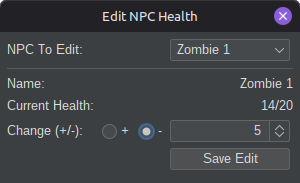
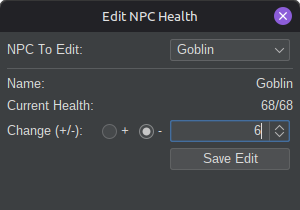
Updated README.md

diff --git a/README.md b/README.md
@@ -4,7 +4,7 @@
 ![Build](https://img.shields.io/badge/Build-Maven-blue.svg)
 ![UI](https://img.shields.io/badge/UI-Swing%20%7C%20FlatLaf%20%7C%20MigLayout-informational.svg)
 
-A desktop combat management and initiative tracking application for D&D. Designed for DMs, it automates turn order, resolves ties, tracks NPC hit points, and manages death saves.
+A desktop combat management and initiative tracking application for D&D. Designed for Dungeon Masters, it automates turn order, resolves ties, tracks NPC hit points, manages swarms and hordes, handles death saves, and provides secure encrypted encounter saves.
 
 ## Table of Contents
 - [Installation & Running](#installation--running)
@@ -21,7 +21,7 @@ A desktop combat management and initiative tracking application for D&D. Designe
 
 #### Prerequisites
 Ensure you have the following installed on your machine:
-- **Java Development Kit (JDK):** Version 21 or higher (21 recommended): `java -version`
+- **Java Development Kit (JDK):** Version 21 or higher: `java -version`
 - **Apache Maven:** `mvn -version`
 - **Git:** `git --version`
 
@@ -51,72 +51,114 @@ mvn clean compile exec:java -Dexec.mainClass="com.c0d3wan.initiativetracker.Main
 Or build the package and run it from the `target/` directory:
 ```bash
 mvn clean package
+java -jar target/initiativetracker-<version>.jar
+```
+
+To supply a custom 256-bit AES Base64 key for file encryption:
+```bash
+java -Dsave.encryption.key="YOUR_BASE64_AES_KEY" -jar target/initiativetracker-<version>.jar
 ```
 
 ### Via Releases
-Go to [Releases](https://github.com/EubiWan/InitiativeTracker/releases) and install the latest version for your device.
+Go to [Releases](https://github.com/C0d3Wan/InitiativeTracker/releases) and install the latest version for your device.
 
 ---
 
 ## Features
-- **Automatic Initiative & Tie-Breaker Calculation** – Sorts combatants automatically and resolves ties using Dexterity modifiers.
-- **Circular Turn Queue & Active Highlighting** – Rotates the active combatant to the top of the list with green turn highlighting.
-- **Dynamic Death Saving Throws** – Contextual Pass/Fail controls and visual pip trackers when the active character is downed.
-- **NPC Health Management** – Tracks current and max HP for Enemies and Allies with automatic death status transitions at 0 HP.
-- **Live Mid-Combat Editing** – Update initiative rolls, Dexterity scores, or life statuses on the fly.
-- **Batch Adding & Removal** – Add multiple combatants in one go, or clear out all NPCs/characters at the end of an encounter.
-- **Input Validation** – Prevents duplicate names and truncates overly long strings to keep the UI clean.
-- **Save/Load** - Ability to save and load the initiative tracker
+- **Automatic Initiative & Dynamic Tie-Breaker Calculation** – Sorts combatants automatically in descending order, using Dexterity scores as fractional tie-breakers for Players and Allies while keeping Enemy rolls standard.
+- **Circular Turn Queue & Active Highlighting** – Cyclically advances combat round-by-round, anchoring the active combatant at index 0 with an emerald green highlight and skipping deceased combatants automatically.
+- **Dynamic Death Saving Throws** – Displays interactive Pass/Fail controls and visual radio pip trackers in the main window whenever the active turn holder is downed. Resolves resurrection at 3 passes and death at 3 fails.
+- **NPC Health & Horde/Swarm Management** – Manage individual NPC health pools with delta (+/-) adjustments. Group swarms into `HORDE` entities that share an initiative slot and dynamically update aggregate health as individual members hit 0 HP.
+- **AES-Encrypted Save & Load** – Encrypts and decrypts combat sessions using AES encryption over JSON data, complete with duplicate name filtering and dedicated "Save As" / "Load File" dialogs.
+- **Light & Dark Theme Toggle** – Switch seamlessly between FlatLaf Light and Dark themes, with state persistence stored automatically in the platform config directory.
+- **Live Mid-Combat Editing** – Update initiative rolls, Dexterity scores, or life statuses (`ALIVE`, `DOWN`, `DEAD`) on the fly.
+- **Batch Removal & Targeting** – Remove individual characters, all registered combatants, all NPCs, or filter removal by enemy sub-types (e.g., removing all "Goblin Archers").
+- **Cross-Platform Storage** – Automatically stores saves and settings in standard OS folders (`%APPDATA%` on Windows, `~/.config` on Linux, and `Application Support` on macOS).
 
 ---
 
 ## Usage Guide
 
-### 1. Main Interface (Empty State)
+### 1. Main Interface & Theming
+#### 1.1. Main Window (Initial Empty State)
 ![EmptyMainMenu.png](Images/EmptyMainMenu.png)
 
-### 2. Adding a Player Character
-![AddCharacter.png](Images/AddCharacter.png)
+#### 1.2. Active Combat & Turn Order Highlighting
+![MainMenuActiveTurn.png](Images/MainMenuActiveTurn.png)
 
-### 3. Adding an Enemy / NPC (with Max Health)
-![AddEnemy.png](Images/AddEnemy.png)
+#### 1.3. Theme Showcase
+![ThemeComparison.png](Images/ThemeComparison.png)
 
-### 4. Active Combat & Turn Order
-![MainMenu.png](Images/MainMenu.png)
+---
 
-### 5. Editing Character Stats Mid-Combat
-![EditCharacter.png](Images/EditCharacter.png)
+### 2. Adding Combatants
+#### 2.1. Adding a Player Character
+![AddPlayerCharacter.png](Images/AddPlayerCharacter.png)
 
-### 6. Managing NPC Health (Damage & Healing)
+#### 2.2. Adding an Enemy or NPC (Hit Point Configuration)
+![AddNPC.png](Images/AddNPC.png)
+
+#### 2.3. Configuring a Swarm or Horde Entity
+![AddHorde.png](Images/AddHorde.png)
+
+---
+
+### 3. Active Death Saving Throw Controls
+![DeathSavesActive.png](Images/DeathSavesActive.png)
+
+---
+
+### 4. Mid-Combat Adjustments
+#### 4.1. Editing Stats Mid-Combat (Initiative, Dexterity, Status)
+![EditCharacterStats.png](Images/EditCharacterStats.png)
+
+#### 4.2. Applying NPC Damage & Healing (+ / -)
 ![EditNPCHealth.png](Images/EditNPCHealth.png)
 
-### 7. Rolling Death Saving Throws
-![DeathSaves.png](Images/DeathSaves.png)
+#### 4.3.1. Targeted Removal (Single)
+![RemoveCharacterOptionsSingle.png](Images/RemoveCharacterOptionsSingle.png)
 
-### 8. Removing Combatants
-![RemoveCharacter.png](Images/RemoveCharacter.png)
+#### 4.3.2. Targeted Removal (Group)
+![RemoveChracterOptionsGroup.png](Images/RemoveChracterOptionsGroup.png)
+
+---
+
+### 5. File Persistence & Encounter Storage
+#### 5.1. Saving Encounters with Custom Filenames
+![SaveAsDialogue.png](Images/SaveAsDialogue.png)
+
+#### 5.2. Browsing & Loading Encounters from Storage
+![LoadFileDialogue.png](Images/LoadFileDialogue.png)
 
 ---
 
 ## Project Structure
 
 ```text
-src/main/java/com/eubi/initiativetracker/
+src/main/java/com/c0d3wan/initiativetracker/
 ├── characters/
 │   ├── Character.java              # Base combatant model with composite initiative math and death saves
+│   ├── CharacterData.java          # Immutable record snapshot of combatant state
 │   ├── CharacterManager.java       # Roster collection, stream sorting, and circular turn rotation
-│   ├── CharacterType.java          # Enum for alignment categories (PLAYER, ENEMY, ALLY)
-│   ├── DeathStatus.java            # Enum for health states (ALIVE, DOWN, DEAD)
-│   └── NonePlayerCharacter.java    # NPC/Enemy subclass adding current/max HP and auto-death triggers
+│   ├── CharacterType.java          # Enum for alignment categories (PLAYER, ENEMY, ALLY, HORDE, UNKNOWN)
+│   ├── DeathStatus.java            # Enum for health states (ALIVE, DOWN, DEAD, UNKNOWN)
+│   ├── Horde.java                  # Composite group NPC entity with aggregated health scaling
+│   └── NonePlayerCharacter.java    # NPC subclass adding HP tracking, enemy subtypes, and auto-death triggers
+├── FileManagement/
+│   ├── ConfigManager.java          # Serializes and restores UI theme preferences
+│   ├── FileManager.java            # Cross-platform directory routing (Windows, Linux, macOS)
+│   └── SaveLoadManager.java        # AES encryption, decryption, and JSON serialization for encounters
 ├── swingui/
-│   ├── AddCharacterMenu.java       # Modal dialog for creating combatants with duplicate name validation
-│   ├── CharacterCellRenderer.java  # Custom JList renderer for turn highlighting and death save pips
+│   ├── AddCharacterMenu.java       # Modal dialog for creating combatants with duplicate name & regex validation
+│   ├── CharacterCellRenderer.java  # Custom JList renderer for active turn highlighting and death save pips
 │   ├── EditCharacterMenu.java      # Modal dialog for updating initiative, dexterity, and status
 │   ├── EditNPCHealth.java          # Modal dialog for bounded damage/healing (-/+) adjustments
+│   ├── LoadFileMenu.java           # Modal dialog for browsing and loading saved encounters
 │   ├── MainMenu.java               # Primary JFrame window hosting toolbars, buttons, and initiative list
-│   ├── RemoveCharacterMenu.java    # Modal dialog for removing single characters, NPCs, or all records
+│   ├── RemoveCharacterMenu.java    # Modal dialog for removing characters, NPCs, or specific enemy types
+│   ├── SaveAsMenu.java             # Modal dialog for naming and saving new encounter files
 │   └── UIManager.java              # Controller synchronizing Swing UI events with the backend manager
-└── Main.java                       # Application entry point configuring FlatDarkLaf and launching GUI
+└── Main.java                       # Application entry point loading configuration and launching GUI on the EDT
 ```
 
 ---
